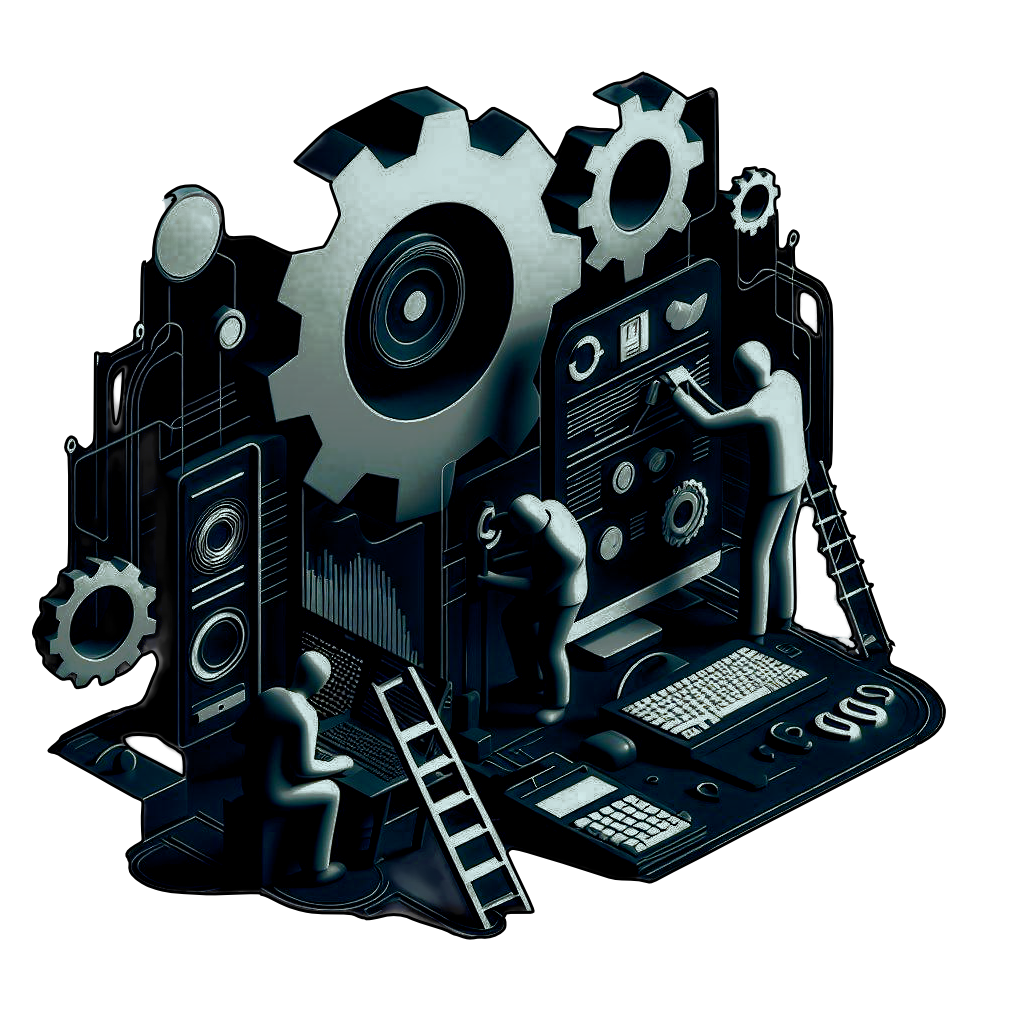
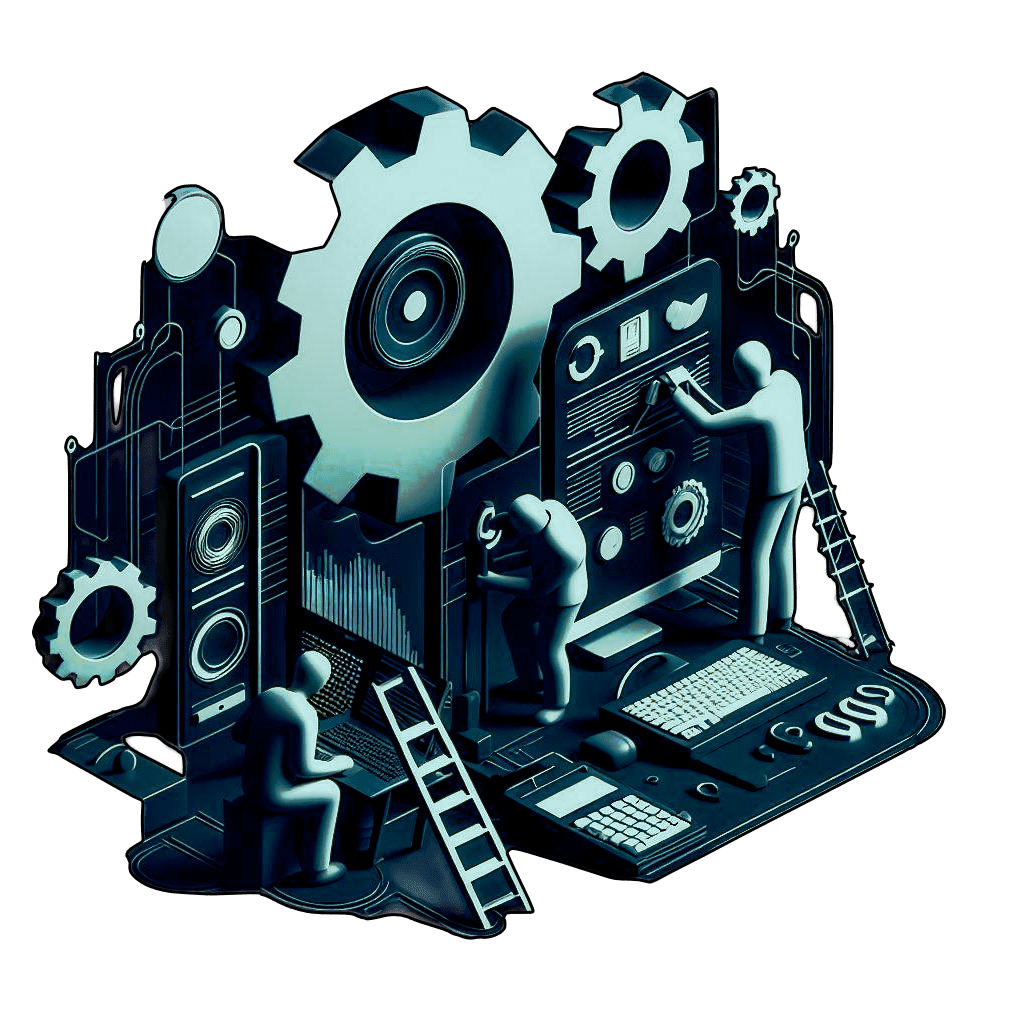
fix: compress assets size and improve .maintenance-image style

Changed region(s): [[0.0312, 0.0625, 0.9375, 0.9062]]

diff --git a/pages/wip/index.vue b/pages/wip/index.vue
@@ -46,7 +46,7 @@
     }
   
     .maintenance-image {
-      max-width: 35%;
+      max-width: 50%;
       height: auto;
       display: block;
       margin: 0 auto;
